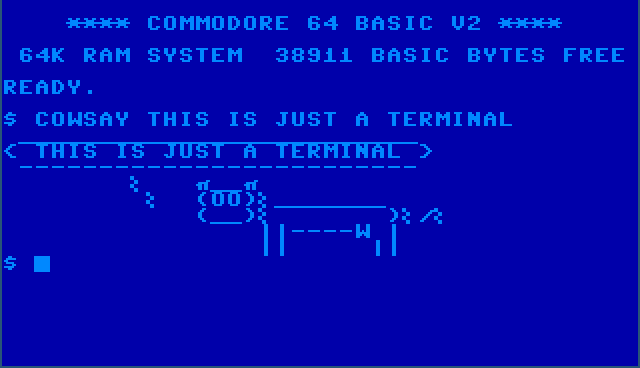
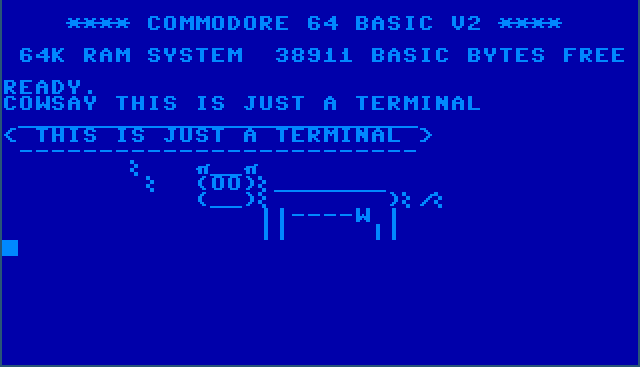
WIP: Documentation.

Changed region(s): [[0.0, 0.2098, 0.8125, 0.6894], [0.0, 0.6294, 0.0938, 0.7493], [0.4062, 0.6594, 0.4688, 0.6894]]

diff --git a/docs/usage.rst b/docs/usage.rst
@@ -1,34 +1,65 @@
 Usage
 =====
 
-.. note:: This page is outdated.
+This package provides a command line interface for conversion, creation and showing TrueType retro fonts. It does so by converting binary encoded glyphs form character ROM images or by converting to and from a human readable format.
 
-This program uses the Sharp MZ character and monitor ROMs_ for the display
-character sets and the interchange character set respectively.
+.. figure:: images/c64_cowsay.png
 
-.. image:: images/c64_cowsay.png
+    Plain Bash running in a terminal.
 
 
 ``rom2ttf``
 -----------
 
-The ``rom2ttf`` subcommand creates a font that contains three character sets in the
-UTF-8 Private Use Area. The interchange character set is stored at 0xe000, the
-primary display character set is stored ad 0xe100 and the alternate display
-character set is stored ad 0xe200. The default font is left unchanged.
+The ``rom2ttf`` subcommand creates a font that contains character sets in the
+UTF-8 Private Use Area. The main use case for this subcommand is covered in
+the the :ref:`quickstart` section. Here, we will focus on more complicated
+cases. The Sharp MZ-700 provides us with such a case, this system has two
+character sets, characters are stored in a different order from which they are
+used (the firmware uses a mapping table) and all glyphs are mirrored.
+
+Both the character ROM as well as the firmware can be found in the
+`internet archive`_.
 
 .. code:: bash
 
-    retrofont rom2ttf mz700fon.int 1z-013a.rom ~/.local/share/fonts/SharpMZ.ttf
+    retrofont rom2ttf -d ~/.local/share/fonts -f 1z-013a.rom -s SharpMZ SharpMZ mz700fon.int
     fc-cache -f
 
-Open a new terminal that uses the Sharp MZ font.
+In this example, we provide a system name via the ``-s`` option, which is
+used to retrieve system specific configuration values. For the Sharp MZ
+series, the ``mirror`` configuration value, which controls the mirroring of
+glyphs, is set to ``true`` and the ``map_offset`` configuration value is set
+to ``0x0a92``. The latter value is used in conjunction with the ``-f`` flag,
+which provides a path to the firmware ROM image. A mapping table of 256 bytes
+is read from the ROM impage from offset 0x0a92 onward. This mapping table is
+used to permute the character sets.
 
-::
+This command converts the character ROM image file ``mz700fon.int`` to a
+TrueType font file named ``SharpMZ.ttf`` and placed in
+``~/.local/share/fonts`` as provided via the ``-d`` option. The font name is
+set to ``SharpMZ``, the last but one parameter controls both the file name as
+the font name.
+
+The font can be used in a terminal as follows. In Wayland we can use ``foot``
+as follows.
+
+.. code:: text
 
     foot -f SharpMZ
 
-.. image:: images/sharpmz_normal.png
+In X, ``xterm`` can be used.
+
+.. code:: text
+
+    xterm -fa SharpMZ
+
+The character sets are placed in the UTF-8 Private Use Area U+E000. This
+allows for mixing bothe the original font as well as the additional fonts. 
+
+.. figure:: images/sharpmz_normal.png
+
+    Plain text mixed with SHarp MZ characters.
 
 
 The ``-p`` flag additionally changes the primary font, uses square characters
@@ -36,37 +67,112 @@ and removes line spacing.
 
 .. code:: bash
 
-    retrofont rom2fft mz700fon.int 1z-013a.rom ~/.local/share/fonts/SharpMZD.ttf
+    retrofont rom2ttf -d ~/.local/share/fonts -f 1z-013a.rom -s SharpMZ -p SharpMZ_P mz700fon.int
     fc-cache -f
 
-Open a new terminal that uses the Sharp MZ default font.
+In this example, the TrueType font is named ``SharpMZ_P`` and is written to
+``SharpMZ_P.ttf``. Analogous to the previous example, this font can be used as
+follows.
 
-::
+.. code:: text
 
     foot -f SharpMZ_P
 
-.. image:: images/sharpmz_primary.png
+.. figure:: images/sharpmz_primary.png
 
-.. image:: images/sharpmz_boot.png
+    Sharp MZ character set in the primary font.
+
+Adjusting the terminal foreground and background colours can have quite a
+convincing effect.
+
+.. figure:: images/sharpmz_boot.png
+
+    This is not a screenshot of an emulator.
+
 
 ``show``
 --------
 
-The ``show`` subcommand shows all three character sets.
+Since the character ROM contains two character sets and a mapping table is
+provided, four character sets will be placed in the UTF-8 Private Use Area.
+The two permuted character sets are placed at offsets U+E000 and U+E100
+respectively. The two original character sets are placed after the permuted
+sets at offsets U+E200 and U+E300 respectively.
 
-::
+The character sets can be shown using the ``show`` subcommand. The fourth
+character set (second character set, not permuted) is shown as follows.
 
-    retrofont show
+.. code:: text
 
-If the ``rom2ttf`` subcommand was used to create the font, the output should look as
-follows.
+    retrofont show 3
 
-.. image:: images/mz_normal.png
+.. figure:: images/sharpmz_show_3.png
 
-If the ``default`` subcommand was used to create the font, the output should look
+    The second Sharp MZ character set as stored in the character ROM image.
+
+Additionally, the primary character set has index -1. If the ``-p`` option of
+the ``rom2ttf`` subcommand was used to create the font, the output should look
 as follows.
 
-.. image:: images/default_test.png
+.. code:: text
+
+    retrofont show -1
+
+.. figure:: images/sharpmz_show_P.png
+
+    lorem ipsum
 
 
-.. _ROMs: https://ia803204.us.archive.org/view_archive.php?archive=/29/items/mame-0.221-roms-merged/mz700.zip
+``rom2yml``
+-----------
+
+A character ROM file can be converted to a human readable YAML file using the
+``rom2yml`` subcommand, in which te glyphs can be edited.
+
+.. code:: text
+
+    retrofont rom2yml mz700fon.int mz700fon.yml
+
+The newly created YAML file starts as follows.
+
+.. code:: yaml
+
+    - - data:
+        - '  ####  '
+        - ' #    # '
+        - ' #    # '
+        - ' ###### '
+        - ' #    # '
+        - ' #    # '
+        - ' #    # '
+        - '        '
+        offset: 1
+      - data:
+        - '  ##### '
+        - ' #   #  '
+        - ' #   #  '
+        - '  ####  '
+        - ' #   #  '
+        - ' #   #  '
+        - '  ##### '
+        - '        '
+        offset: 2
+      # ...
+
+Notice that the glyphs are mirrored, this is one of the reasons we need a
+``SharpMZ`` configuration section.
+
+
+``yml2rom``
+-----------
+
+Since YAML files are easy to read and modify, ``rom2yml`` makes it easy to
+inspect the content of a character ROM file and to make modifications when
+needed.
+
+The subcommand ``yml2rom`` can be used to create a character ROM file from a
+YAML file. After which, the ``rom2ttf`` subcommand can be used to create a
+TrueType font.
+
+
+.. _internet archive: https://ia803204.us.archive.org/view_archive.php?archive=/29/items/mame-0.221-roms-merged/mz700.zip

diff --git a/README.rst b/README.rst
@@ -22,14 +22,15 @@ RetroFont: TrueType font generator
 
 ----
 
+This package provides a programming library and a command line interface for
+conversion, creation and showing of TrueType retro fonts.
 
 .. image:: https://raw.githubusercontent.com/jfjlaros/retrofont/master/docs/images/invader.png
    :width: 150px
    :align: center
 
-This package provides a programming library and a command line interface for
-conversion, creation and showing of TrueType retro fonts.
 
+.. _quickstart:
 
 Quick start
 -----------
@@ -45,39 +46,36 @@ command.
     retrofont rom2ttf -d ~/.local/share/fonts/ MSX charset_international.raw
     fc-cache -f
 
-Open a new terminal that uses the newly created font.
+Open a new terminal that uses the newly created font. In Wayland we can use
+``foot`` as follows.
 
 .. code:: text
 
     foot -f MSX
 
-.. image:: https://raw.githubusercontent.com/jfjlaros/retrofont/master/docs/images/msx_normal.png
+In X, ``xterm`` can be used.
+
+.. code:: text
+
+    xterm -fa MSX
+
+.. figure:: https://raw.githubusercontent.com/jfjlaros/retrofont/master/docs/images/msx_normal.png
+
+    MSX character set in the UTF-8 Private Use Area U+E000.
 
 The ``-p`` option will make the converted font the primary font. It will also
 make the characters square and it will remove line spacing.
 
-.. image:: https://raw.githubusercontent.com/jfjlaros/retrofont/master/docs/images/msx_primary.png
+.. figure:: https://raw.githubusercontent.com/jfjlaros/retrofont/master/docs/images/msx_primary.png
+
+    MSX character set in the primary font.
 
 Adjusting the terminal foreground and background colours can have quite a
 convincing effect.
 
-.. image:: https://raw.githubusercontent.com/jfjlaros/retrofont/master/docs/images/c64_boot.png
+.. figure:: https://raw.githubusercontent.com/jfjlaros/retrofont/master/docs/images/c64_boot.png
 
-
-Testing
-~~~~~~~
-
-The character sets can be shown using the ``show`` subcommand. The first (and
-usually only) character set is shown as follows.
-
-.. code:: text
-
-    retrofont show 0
-
-.. image:: https://raw.githubusercontent.com/jfjlaros/retrofont/master/docs/images/msx_show.png
-
-Additional character sets are numbered 1, 2, etc. The primary character set
-has index -1.
+    Commodore 64 character set in the primary font.
 
 
 Creation
@@ -87,6 +85,7 @@ Glyphs can be drawn by hand and put in a YAML file.
 
 .. code:: yaml
 
+    - # ...
     - - data:
         - ' #    # '
         - '  #  #  '
@@ -97,6 +96,7 @@ Glyphs can be drawn by hand and put in a YAML file.
         - '#      #'
         - '###  ###'
         offset: 1
+      # ...
 
 This file can be converted into a character ROM file, which in turn can be
 used to create a TrueType font.
@@ -107,15 +107,9 @@ used to create a TrueType font.
     retrofont rom2ttf -d ~/.local/share/fonts/ test_font test_font.rom
     fc-cache -f
 
-.. image:: https://raw.githubusercontent.com/jfjlaros/retrofont/master/docs/images/test_font.png
+.. figure:: https://raw.githubusercontent.com/jfjlaros/retrofont/master/docs/images/test_font.png
 
-
-Modifying fonts
-~~~~~~~~~~~~~~~
-
-A character ROM file can be converted to a human readable YAML file using the
-``rom2yml`` subcommand, in which te glyphs can be edited. The previously shown
-``yml2rom`` can then be used to create the modified character ROM file.
+    Newly created glyph in the UTF-8 Private Use Area.
 
 
 Please see ReadTheDocs_ for the latest documentation.
